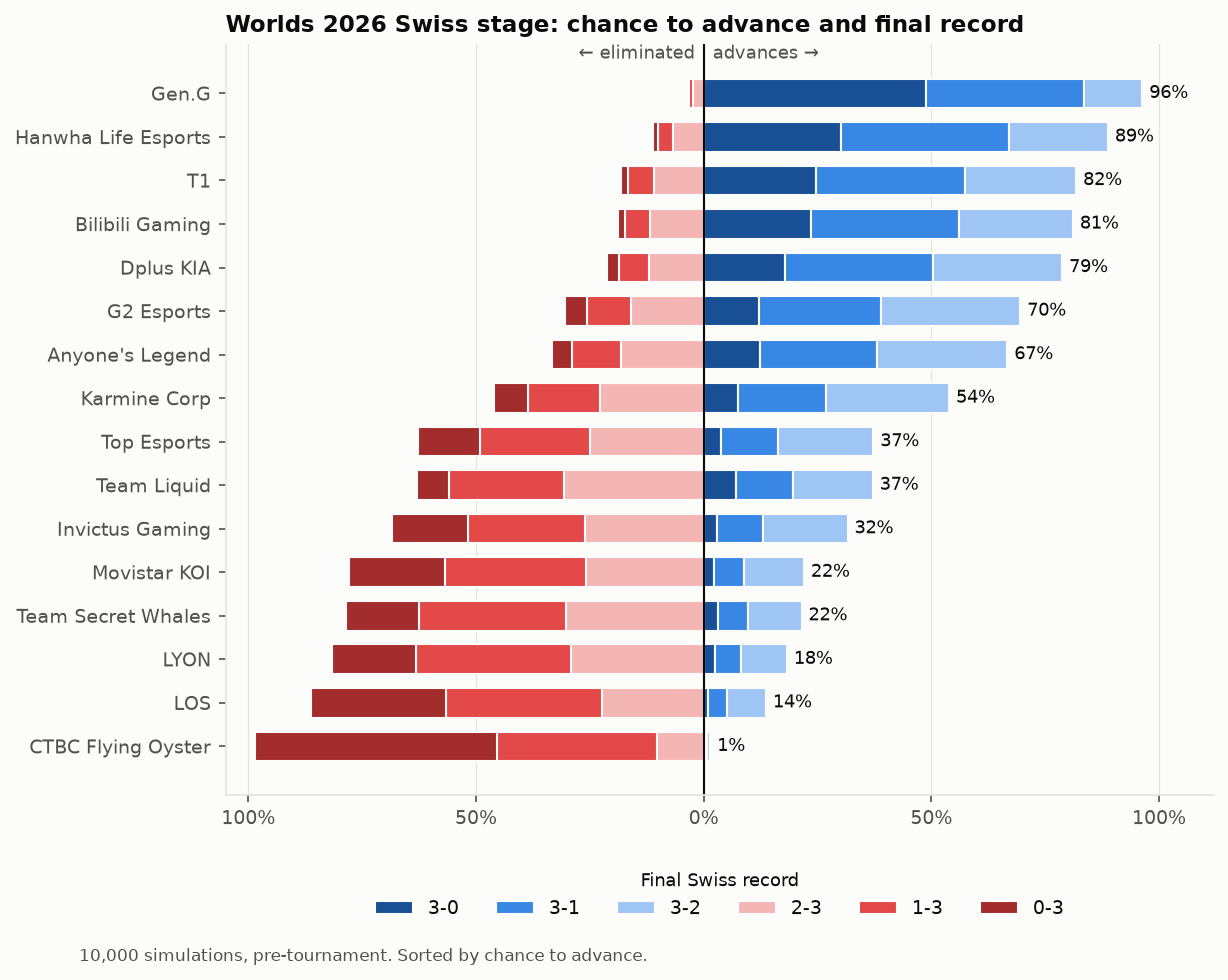
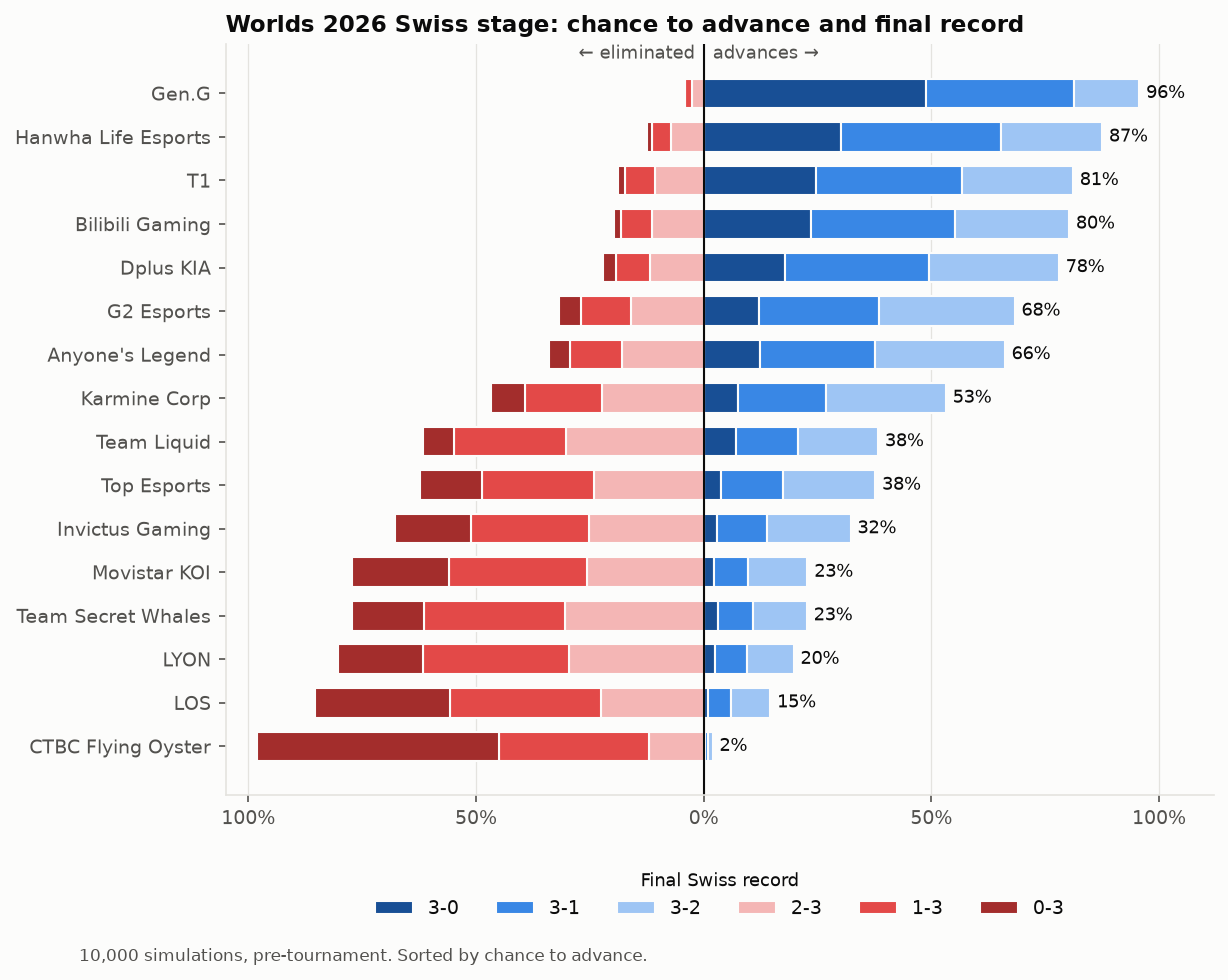
Step 4: Swiss Monte Carlo with advance odds and 3-0/3-1/3-2 records

diff --git a/worlds/swiss.py b/worlds/swiss.py
@@ -5,6 +5,9 @@ config `round1` draw; later rounds draw random pairs within each W-L group, avoi
 (and same-region pairs before `same_region_allowed_from_round`). Known `results` are applied as
 played: those pairs and winners are fixed, and the rest of each group is drawn at random.
 
+Match format: rounds in `bo1_rounds` are Bo1. After that, matches that can decide advancement or
+elimination are Bo3, and the rest stay Bo1 (in practice only the round-3 1-1 group).
+
 Outputs: outputs/swiss_results.csv, outputs/swiss_records.png, and SQLite tables
 swiss_summary (per team) and swiss_sims (per simulation run, for the chained knockout step).
 """
@@ -77,6 +80,14 @@ def validate_results(names: list[str], round1: list, results: list[dict], rules:
 
 # ---------- simulation ----------
 
+def best_of(rnd: int, w: int, l: int, rules: dict) -> int:
+    """Match format for two teams on record w-l in round rnd."""
+    if rnd in set(rules.get("bo1_rounds", [])):
+        return 1
+    decisive = w == rules["wins_to_advance"] - 1 or l == rules["losses_to_eliminate"] - 1
+    return 3 if decisive else 1
+
+
 def _pair(pool: list[int], played: set, region: list[str], allow_same_region: bool,
           rng: np.random.Generator) -> list[tuple[int, int]]:
     """Random pairing of an even pool. Tries hard constraints first, then relaxes them."""
@@ -117,7 +128,6 @@ def simulate_swiss(names, region, round1, results_by_round, p_game, rules, n_sim
     idx = {nm: i for i, nm in enumerate(names)}
     r1_pairs = [(idx[a], idx[b]) for a, b in round1]
     need_w, need_l = rules["wins_to_advance"], rules["losses_to_eliminate"]
-    bo1 = set(rules.get("bo1_rounds", []))
     region_from = rules.get("same_region_allowed_from_round", 1)
     p_by_bo = {1: p_game, 3: p_series(p_game, 3), 5: p_series(p_game, 5)}
 
@@ -145,11 +155,11 @@ def simulate_swiss(names, region, round1, results_by_round, p_game, rules, n_sim
                         pools.setdefault((w[i], l[i]), []).append(i)
                 for pool in pools.values():
                     pairs += _pair(pool, played, region, rnd >= region_from, rng)
-            p = p_by_bo[1 if rnd in bo1 else 3]
             for a, b in pairs:
                 key = frozenset((a, b))
                 winner = fixed.get(key)
                 if winner is None:
+                    p = p_by_bo[best_of(rnd, w[a], l[a], rules)]
                     winner = a if rng.random() < p[a, b] else b
                 loser = b if winner == a else a
                 w[winner] += 1

diff --git a/tests/test_swiss.py b/tests/test_swiss.py
@@ -4,7 +4,7 @@ from collections import Counter
 import numpy as np
 import pytest
 
-from worlds.swiss import simulate_swiss, validate_results
+from worlds.swiss import best_of, simulate_swiss, validate_results
 
 RULES = {"wins_to_advance": 3, "losses_to_eliminate": 3, "bo1_rounds": [1, 2],
          "no_rematches": True, "same_region_allowed_from_round": 2}
@@ -35,6 +35,14 @@ def test_swiss_invariants():
         for i, o in enumerate(opps[s]):
             assert len(o) == wins[s, i] + losses[s, i] <= 5
             assert len(set(o)) == len(o)                     # no rematches
+
+
+def test_best_of_rules():
+    assert best_of(1, 0, 0, RULES) == 1 and best_of(2, 1, 0, RULES) == 1   # Bo1 rounds
+    assert best_of(3, 2, 0, RULES) == 3 and best_of(3, 0, 2, RULES) == 3   # advance / eliminate
+    assert best_of(3, 1, 1, RULES) == 1                                    # 1-1 stays Bo1
+    assert best_of(4, 2, 1, RULES) == 3 and best_of(4, 1, 2, RULES) == 3
+    assert best_of(5, 2, 2, RULES) == 3
 
 
 def test_deterministic_with_certain_outcomes():

diff --git a/notes/04-swiss.md b/notes/04-swiss.md
@@ -14,7 +14,7 @@ From those runs we estimate two things for each team: the chance it advances, an
 
 - **Round 1** uses the official draw from the config.
 - **Later rounds** pair teams with the same win-loss record at random. Teams that have already met are never paired again. Two teams from the same region are allowed to meet from round 2 onward, as the config sets. If no valid pairing exists within a group, these constraints are relaxed. In the 10,000 runs no rematch ever happened.
-- **Match format:** rounds 1–2 are best-of-one. Rounds 3–5 are best-of-three, as the config assumes; this is still to be confirmed against the official rules.
+- **Match format:** rounds 1–2 are best-of-one. From round 3 onward, any match that can send a team through or knock it out is a best-of-three. The round-3 matches between 1-1 teams decide neither, so they stay best-of-one. We first ran every round-3 to round-5 match as a best-of-three and corrected this once the rule was confirmed. The extra best-of-one adds a little upset risk: Gen.G's chance to advance moved from 96.3% to 95.7%, and the weakest teams gained slightly.
 - **Win chances** come from the Step 3 model with ratings as of 2026-10-18. They are averaged over blue and red side, since the side choice changes during a series. A best-of-three uses the series formula from Step 3.
 
 ## Conditioning on real results
@@ -31,7 +31,7 @@ That last rule keeps every team's record at the start of a round known, rather t
 
 The ratings themselves don't update when results are added. They only change after the source data is refreshed and Steps 1 and 3 are rerun.
 
-As a sanity check, we added a hypothetical result in which Invictus Gaming beats Gen.G in round 1. Gen.G's chance of advancing dropped from 96% to 89%, its chance of going 3-0 fell to zero, and Invictus rose from 32% to 54%.
+As a sanity check, we added a hypothetical result in which Invictus Gaming beats Gen.G in round 1. Gen.G's chance of advancing dropped from 96% to 89%, its chance of going 3-0 fell to zero, and Invictus rose from 32% to 54%. This check was run before the best-of-one fix, but the fix doesn't change how results are applied.
 
 ## Pre-tournament forecast
 
@@ -41,28 +41,28 @@ No Swiss matches have been played yet (the stage starts Oct 23), so this is the 
 
 | Team | Advance | 3-0 | 3-1 | 3-2 | 2-3 | 1-3 | 0-3 |
 |---|---|---|---|---|---|---|---|
-| Gen.G | 96.3% | 48.9% | 34.6% | 12.9% | 2.3% | 1.1% | 0.4% |
-| Hanwha Life Esports | 88.8% | 30.2% | 36.8% | 21.7% | 6.8% | 3.3% | 1.1% |
-| T1 | 81.8% | 24.6% | 32.9% | 24.4% | 10.8% | 5.7% | 1.6% |
-| Bilibili Gaming | 81.1% | 23.5% | 32.5% | 25.1% | 11.7% | 5.5% | 1.7% |
-| Dplus KIA | 78.7% | 17.8% | 32.5% | 28.4% | 12.0% | 6.5% | 2.8% |
-| G2 Esports | 69.5% | 12.2% | 26.7% | 30.6% | 16.0% | 9.6% | 4.9% |
-| Anyone's Legend | 66.7% | 12.4% | 25.7% | 28.7% | 18.2% | 10.6% | 4.5% |
-| Karmine Corp | 53.9% | 7.6% | 19.3% | 27.0% | 22.8% | 15.8% | 7.6% |
-| Top Esports | 37.3% | 3.8% | 12.5% | 21.0% | 24.9% | 24.2% | 13.6% |
-| Team Liquid | 37.1% | 7.0% | 12.6% | 17.5% | 30.7% | 25.3% | 6.9% |
-| Invictus Gaming | 31.6% | 3.0% | 10.1% | 18.5% | 26.0% | 25.7% | 16.7% |
-| Movistar KOI | 22.1% | 2.2% | 6.7% | 13.1% | 25.8% | 31.0% | 21.2% |
-| Team Secret Whales | 21.5% | 3.0% | 6.8% | 11.7% | 30.3% | 32.2% | 16.0% |
-| LYON | 18.3% | 2.4% | 5.9% | 10.0% | 29.2% | 34.0% | 18.5% |
-| LØS | 13.7% | 1.0% | 4.1% | 8.6% | 22.4% | 34.3% | 29.6% |
-| CTBC Flying Oyster | 1.5% | 0.3% | 0.5% | 0.7% | 10.2% | 35.3% | 53.1% |
+| Gen.G | 95.7% | 48.9% | 32.5% | 14.3% | 2.6% | 1.4% | 0.4% |
+| Hanwha Life Esports | 87.5% | 30.2% | 35.0% | 22.2% | 7.3% | 4.1% | 1.1% |
+| T1 | 81.1% | 24.6% | 32.2% | 24.3% | 10.8% | 6.6% | 1.6% |
+| Bilibili Gaming | 80.2% | 23.5% | 31.6% | 25.2% | 11.5% | 6.6% | 1.7% |
+| Dplus KIA | 78.0% | 17.8% | 31.6% | 28.5% | 11.8% | 7.4% | 2.8% |
+| G2 Esports | 68.3% | 12.2% | 26.3% | 29.8% | 16.1% | 10.8% | 4.9% |
+| Anyone's Legend | 66.1% | 12.4% | 25.3% | 28.5% | 18.0% | 11.4% | 4.5% |
+| Karmine Corp | 53.2% | 7.6% | 19.3% | 26.2% | 22.4% | 16.8% | 7.6% |
+| Team Liquid | 38.3% | 7.0% | 13.7% | 17.6% | 30.1% | 24.7% | 6.9% |
+| Top Esports | 37.7% | 3.8% | 13.6% | 20.3% | 24.1% | 24.6% | 13.6% |
+| Invictus Gaming | 32.3% | 3.0% | 10.9% | 18.4% | 25.2% | 25.9% | 16.7% |
+| Movistar KOI | 22.8% | 2.2% | 7.4% | 13.1% | 25.6% | 30.4% | 21.2% |
+| Team Secret Whales | 22.7% | 3.0% | 7.9% | 11.8% | 30.5% | 30.8% | 16.0% |
+| LYON | 19.8% | 2.4% | 7.0% | 10.3% | 29.5% | 32.3% | 18.5% |
+| LØS | 14.6% | 1.0% | 5.0% | 8.6% | 22.5% | 33.2% | 29.6% |
+| CTBC Flying Oyster | 1.9% | 0.3% | 0.7% | 0.9% | 12.1% | 32.9% | 53.1% |
 
 **Observations**
 - **Gen.G is a heavy favorite to advance (96%)** and goes 3-0 in about half of the runs.
-- **All four LCK teams are in the top five.** Between them, the LCK teams average 3.5 of the 8 knockout places.
-- **The cut line falls around Karmine Corp (54%).** Top Esports and Team Liquid are nearly tied at 37%, but with different profiles. Liquid's favorable round-1 matchup against CTBC Flying Oyster (77%) gives it more 3-0 runs (7.0% vs 3.8%). Top Esports opens against Hanwha Life. It goes 0-3 more often (13.6% vs 6.9%), but it also finishes 3-2 more often (21.0% vs 17.5%).
-- **CTBC Flying Oyster advances in only 1.5% of runs.** It's the only Worlds team rated below zero, and it goes 0-3 more often than not.
+- **All four LCK teams are in the top five.** Between them, the LCK teams average 3.4 of the 8 knockout places.
+- **The cut line falls around Karmine Corp (53%).** Team Liquid (38.3%) and Top Esports (37.7%) are nearly tied, but with different profiles. Liquid's favorable round-1 matchup against CTBC Flying Oyster (77%) gives it more 3-0 runs (7.0% vs 3.8%). Top Esports opens against Hanwha Life. It goes 0-3 more often (13.6% vs 6.9%), but it also finishes 3-2 more often (20.3% vs 17.6%).
+- **CTBC Flying Oyster advances in only 1.9% of runs.** It's the only Worlds team rated below zero, and it goes 0-3 more often than not.
 
 ## Checks
 - The advance probabilities add up to 8.00 teams, as they must.
@@ -70,6 +70,7 @@ No Swiss matches have been played yet (the stage starts Oct 23), so this is the 
   - every run ends with exactly two 3-0 teams, three 3-1, three 3-2, three 2-3, three 1-3 and two 0-3;
   - no team plays more than five matches, and there are no rematches;
   - with overwhelming strength gaps, the best team always goes 3-0;
+  - best-of-one and best-of-three are assigned correctly by round and record;
   - results that are entered are respected in every run;
   - each kind of invalid result raises a clear error.
-- The full test suite (14 tests) passes, and the simulation takes about 2 seconds.
+- The full test suite (15 tests) passes, and the simulation takes about 2 seconds.

diff --git a/CLAUDE.md b/CLAUDE.md
@@ -39,7 +39,15 @@ After finishing a step, add `notes/0N-<step>.md`. Write it as a short project re
 
 | `swiss` | `worlds/swiss.py` | `swiss_summary` and `swiss_sims` tables; `outputs/swiss_results.csv`, `swiss_records.png` |
 
-Planned: Step 5, `knockout [--fixed]`. Chained mode reads each simulation's Swiss outcome from `swiss_sims` and produces title odds. Fixed mode reads the real quarterfinal matchups from a config `knockout.bracket` section. `all` runs every registered step.
+`all` runs every registered step.
+
+### Planned: Step 5, `python -m worlds knockout [--fixed]`
+The user plans to come back to this after the Swiss stage ends and run it with the real 8 teams. All matches are Bo5.
+- **Chained** (default): for each run in `swiss_sims`, draw a quarterfinal bracket from the Swiss records, simulate it, and output title odds. Quarterfinal draw rules, confirmed by the user:
+  - The two 3-0 teams are placed in opposite halves of the bracket, and each faces a 3-2 team.
+  - One 3-1 team, drawn at random, faces the remaining 3-2 team. The other two 3-1 teams face each other.
+  - Same-region matchups are allowed, and so are rematches of Swiss games.
+- **Fixed** (`--fixed`): read the real quarterfinals from config `knockout.bracket: [[A, B], [C, D], [E, F], [G, H]]`, given in bracket order. The winners of pairs 1 and 2 meet in one semifinal, and the winners of pairs 3 and 4 in the other. The user approved this format.
 
 ## Data notes (step `data`)
 - OE has 12 rows per game: 10 players and 2 `position=="team"` rows. Games that don't match this shape are dropped.
@@ -73,7 +81,8 @@ Planned: Step 5, `knockout [--fixed]`. Chained mode reads each simulation's Swis
 ## Swiss notes (step `swiss`)
 - `simulate_swiss()` is pure: no database access, it takes a probability matrix. `game_prob_matrix()` builds that matrix from the saved model.
 - **Pairing:** round 1 uses `round1`. Later rounds draw random pairs within each W-L group, with no rematches, and no same-region pairs before `same_region_allowed_from_round`. Constraints are relaxed in order only if a group can't otherwise be paired.
-- **Match format:** rounds in `bo1_rounds` are Bo1; all later rounds are Bo3.
+- **Match format** (`best_of()`, confirmed by the user): rounds in `bo1_rounds` are Bo1. After that, a match is Bo3 only if it can decide advancement or elimination (either team at 2 wins or 2 losses). The round-3 1-1 group stays Bo1. The config comment "later rounds assumed Bo3" predates this confirmation.
+- **Round draws are random by design.** The sim forecasts the Swiss stage before it's played. If live mid-Swiss forecasting is wanted later, add it as a separate step (e.g. a config `draws:` section for announced but unplayed pairings).
 - **Results:** config `results` fix those pairs and winners. `validate_results()` rejects results for round r unless every match of earlier rounds is entered, and also rejects unknown teams, records that don't match, or a round-1 result that isn't a `round1` pair.
 - **Saved runs:** `swiss_sims` has one row per (sim, team) with wins, losses and the ordered opponents (comma-joined). The chained knockout step reads these.
 
